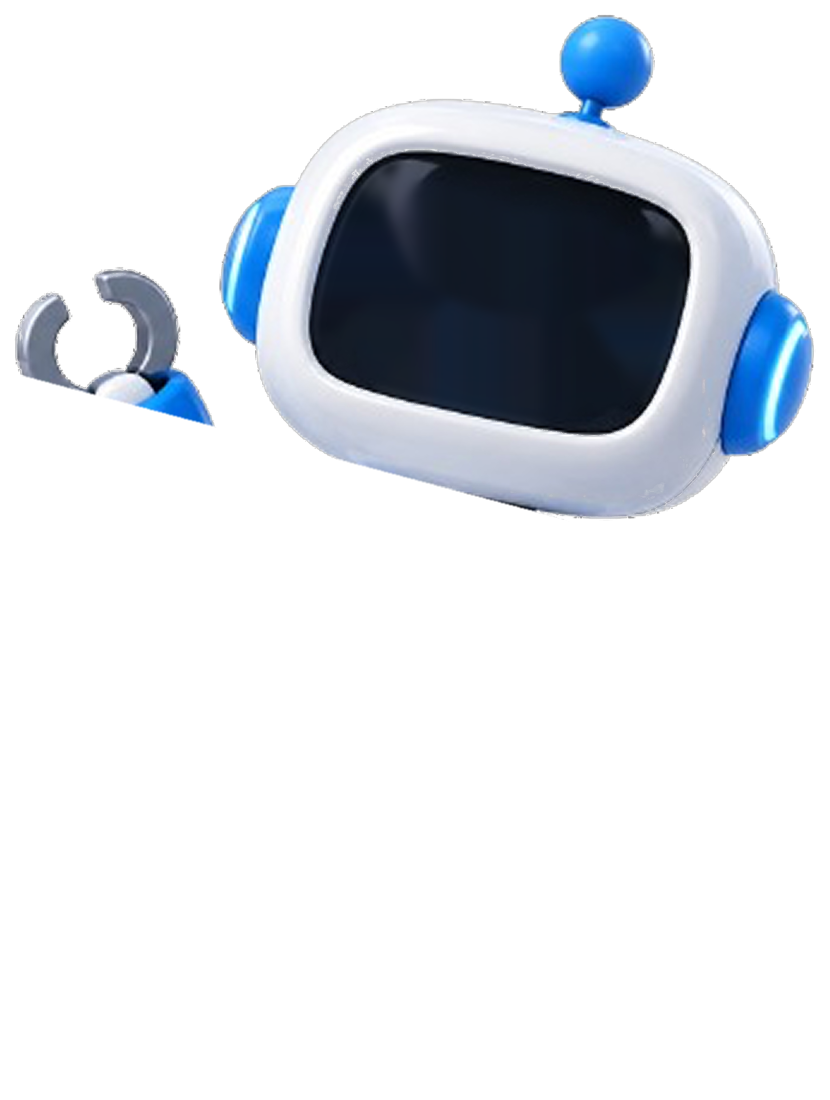
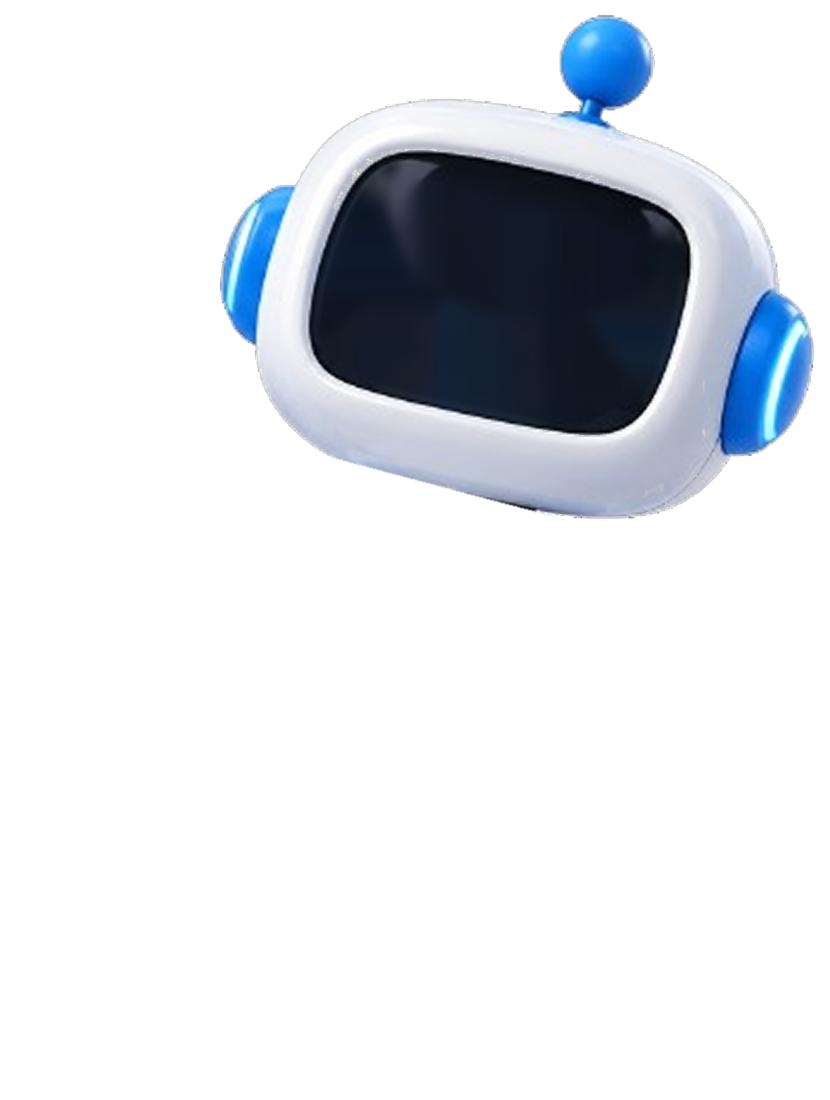
Remove leftover static claw from robot_hi_head.png so only the articulated waving hand renders

Changed region(s): [[0.0, 0.2473, 0.2711, 0.4018]]

diff --git a/src/components/Hero.tsx b/src/components/Hero.tsx
@@ -437,7 +437,7 @@ export default function Hero() {
                     }}
                   >
                     <img
-                      src="/images/robot_hi_head.png?v=3"
+                      src="/images/robot_hi_head.png?v=4"
                       alt=""
                       aria-hidden="true"
                       className="absolute inset-0 w-full h-full object-contain pointer-events-none select-none"
